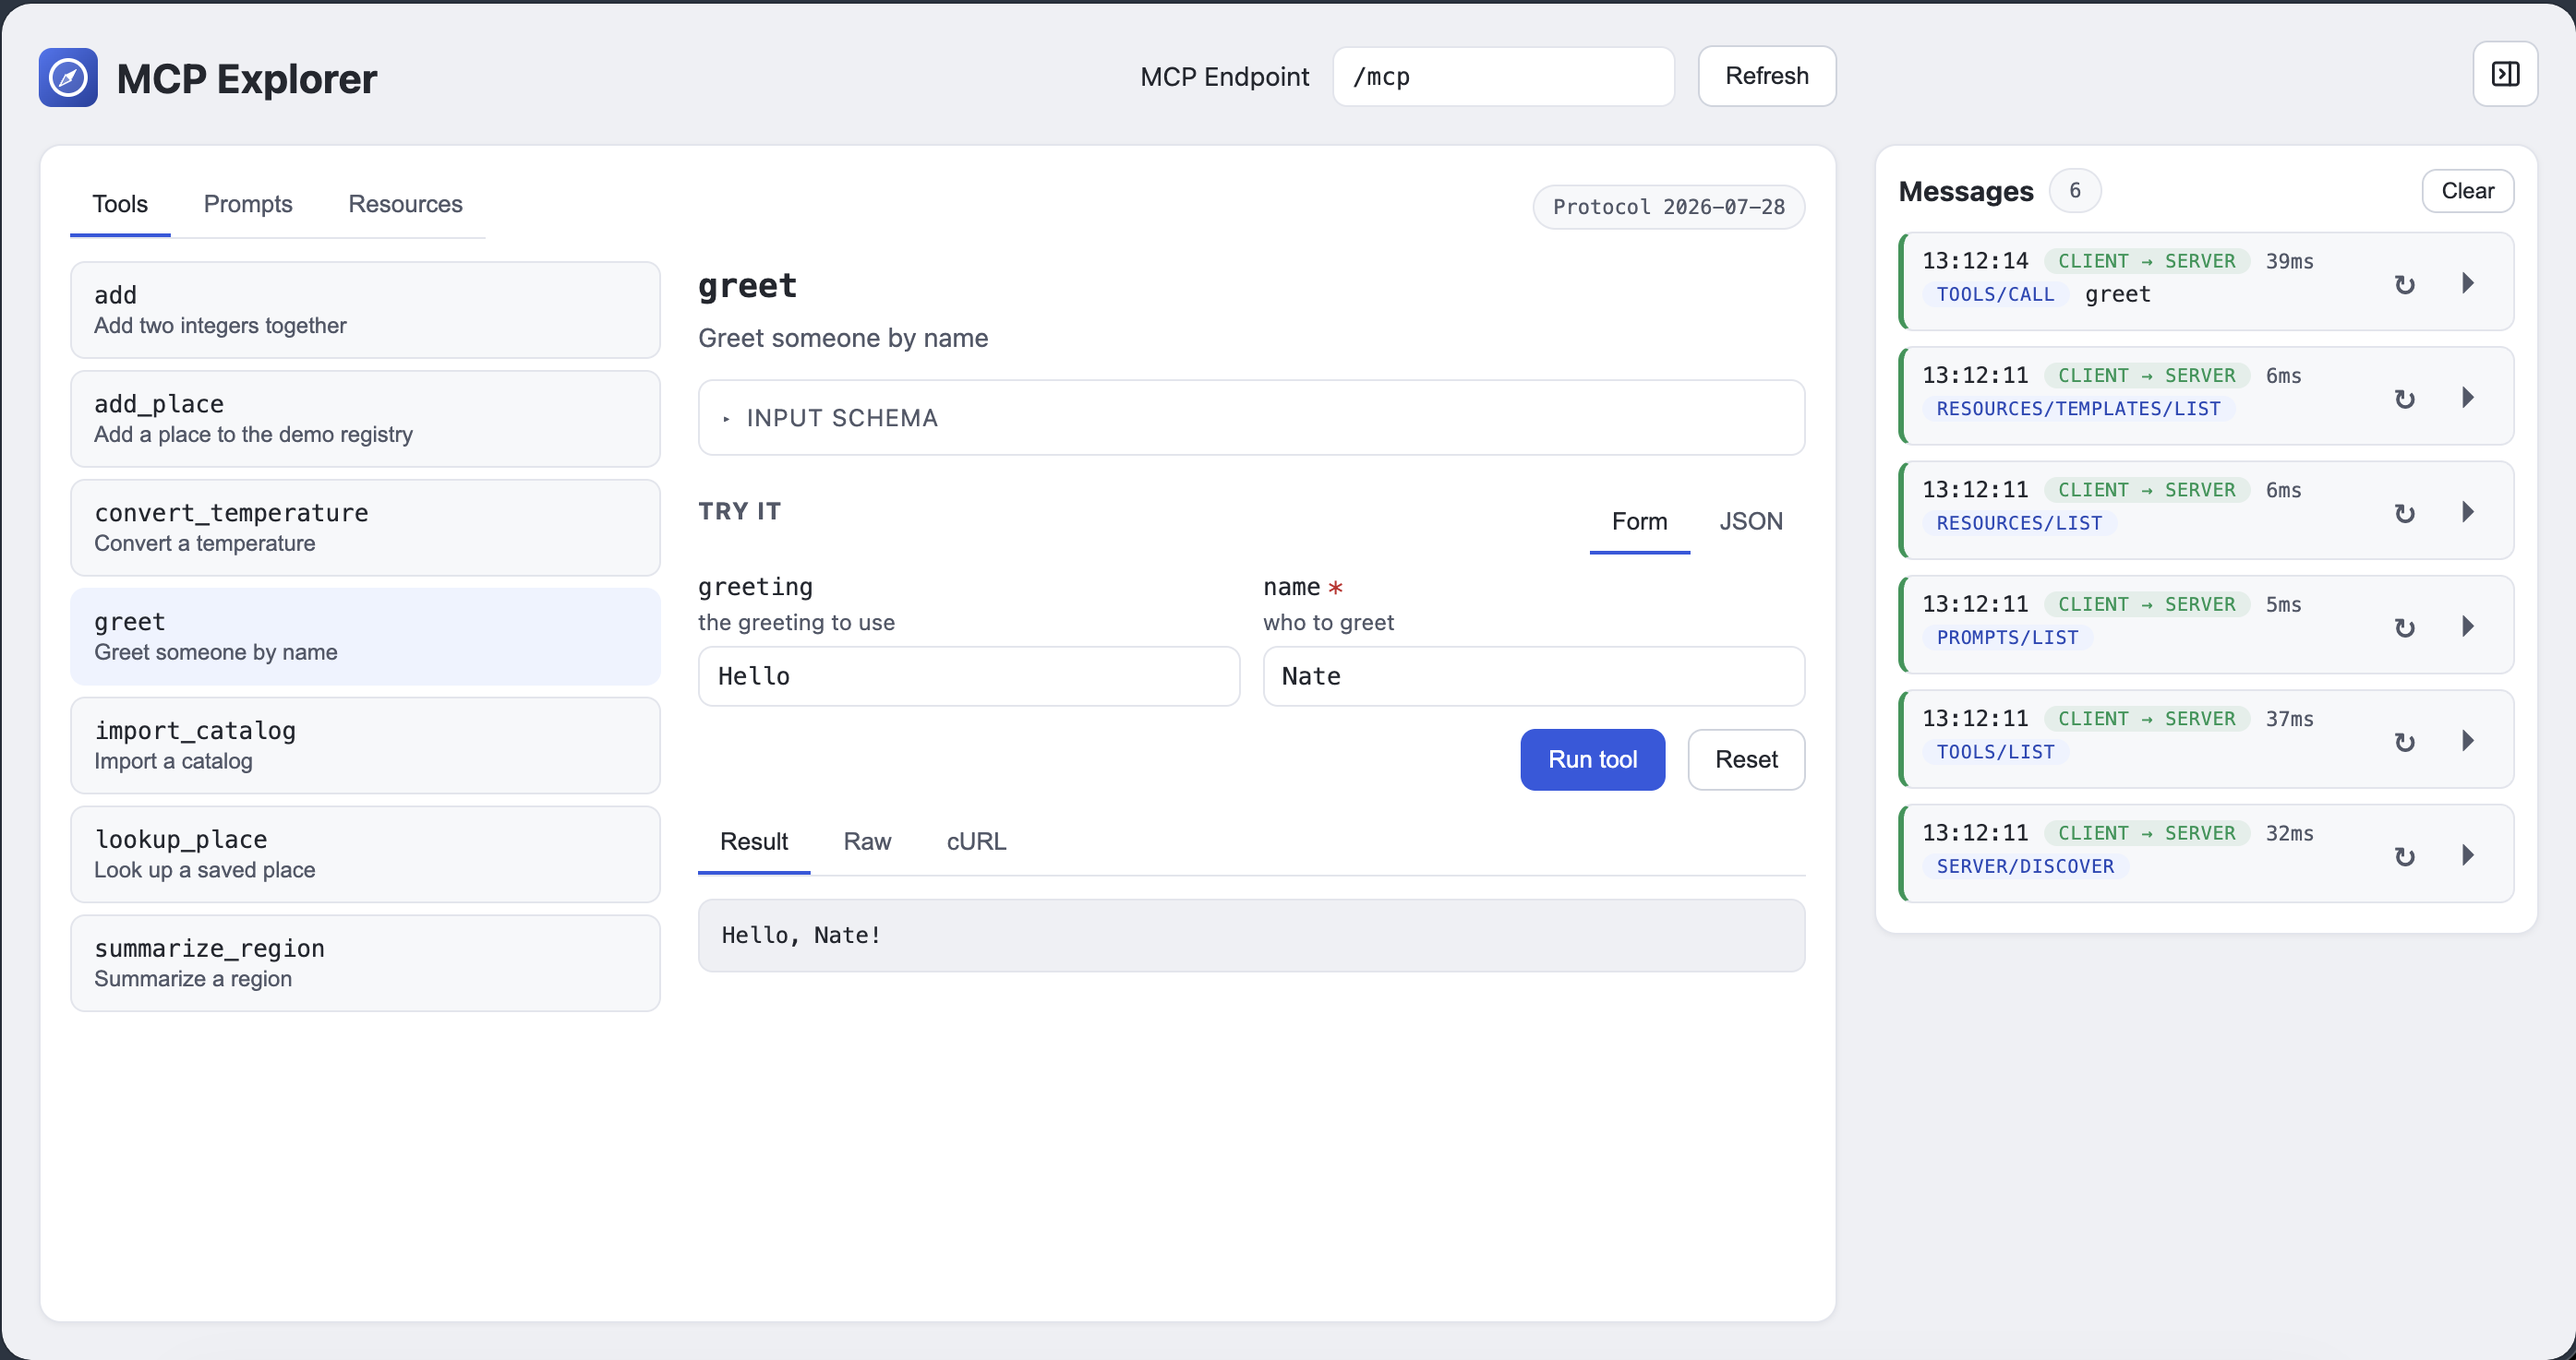
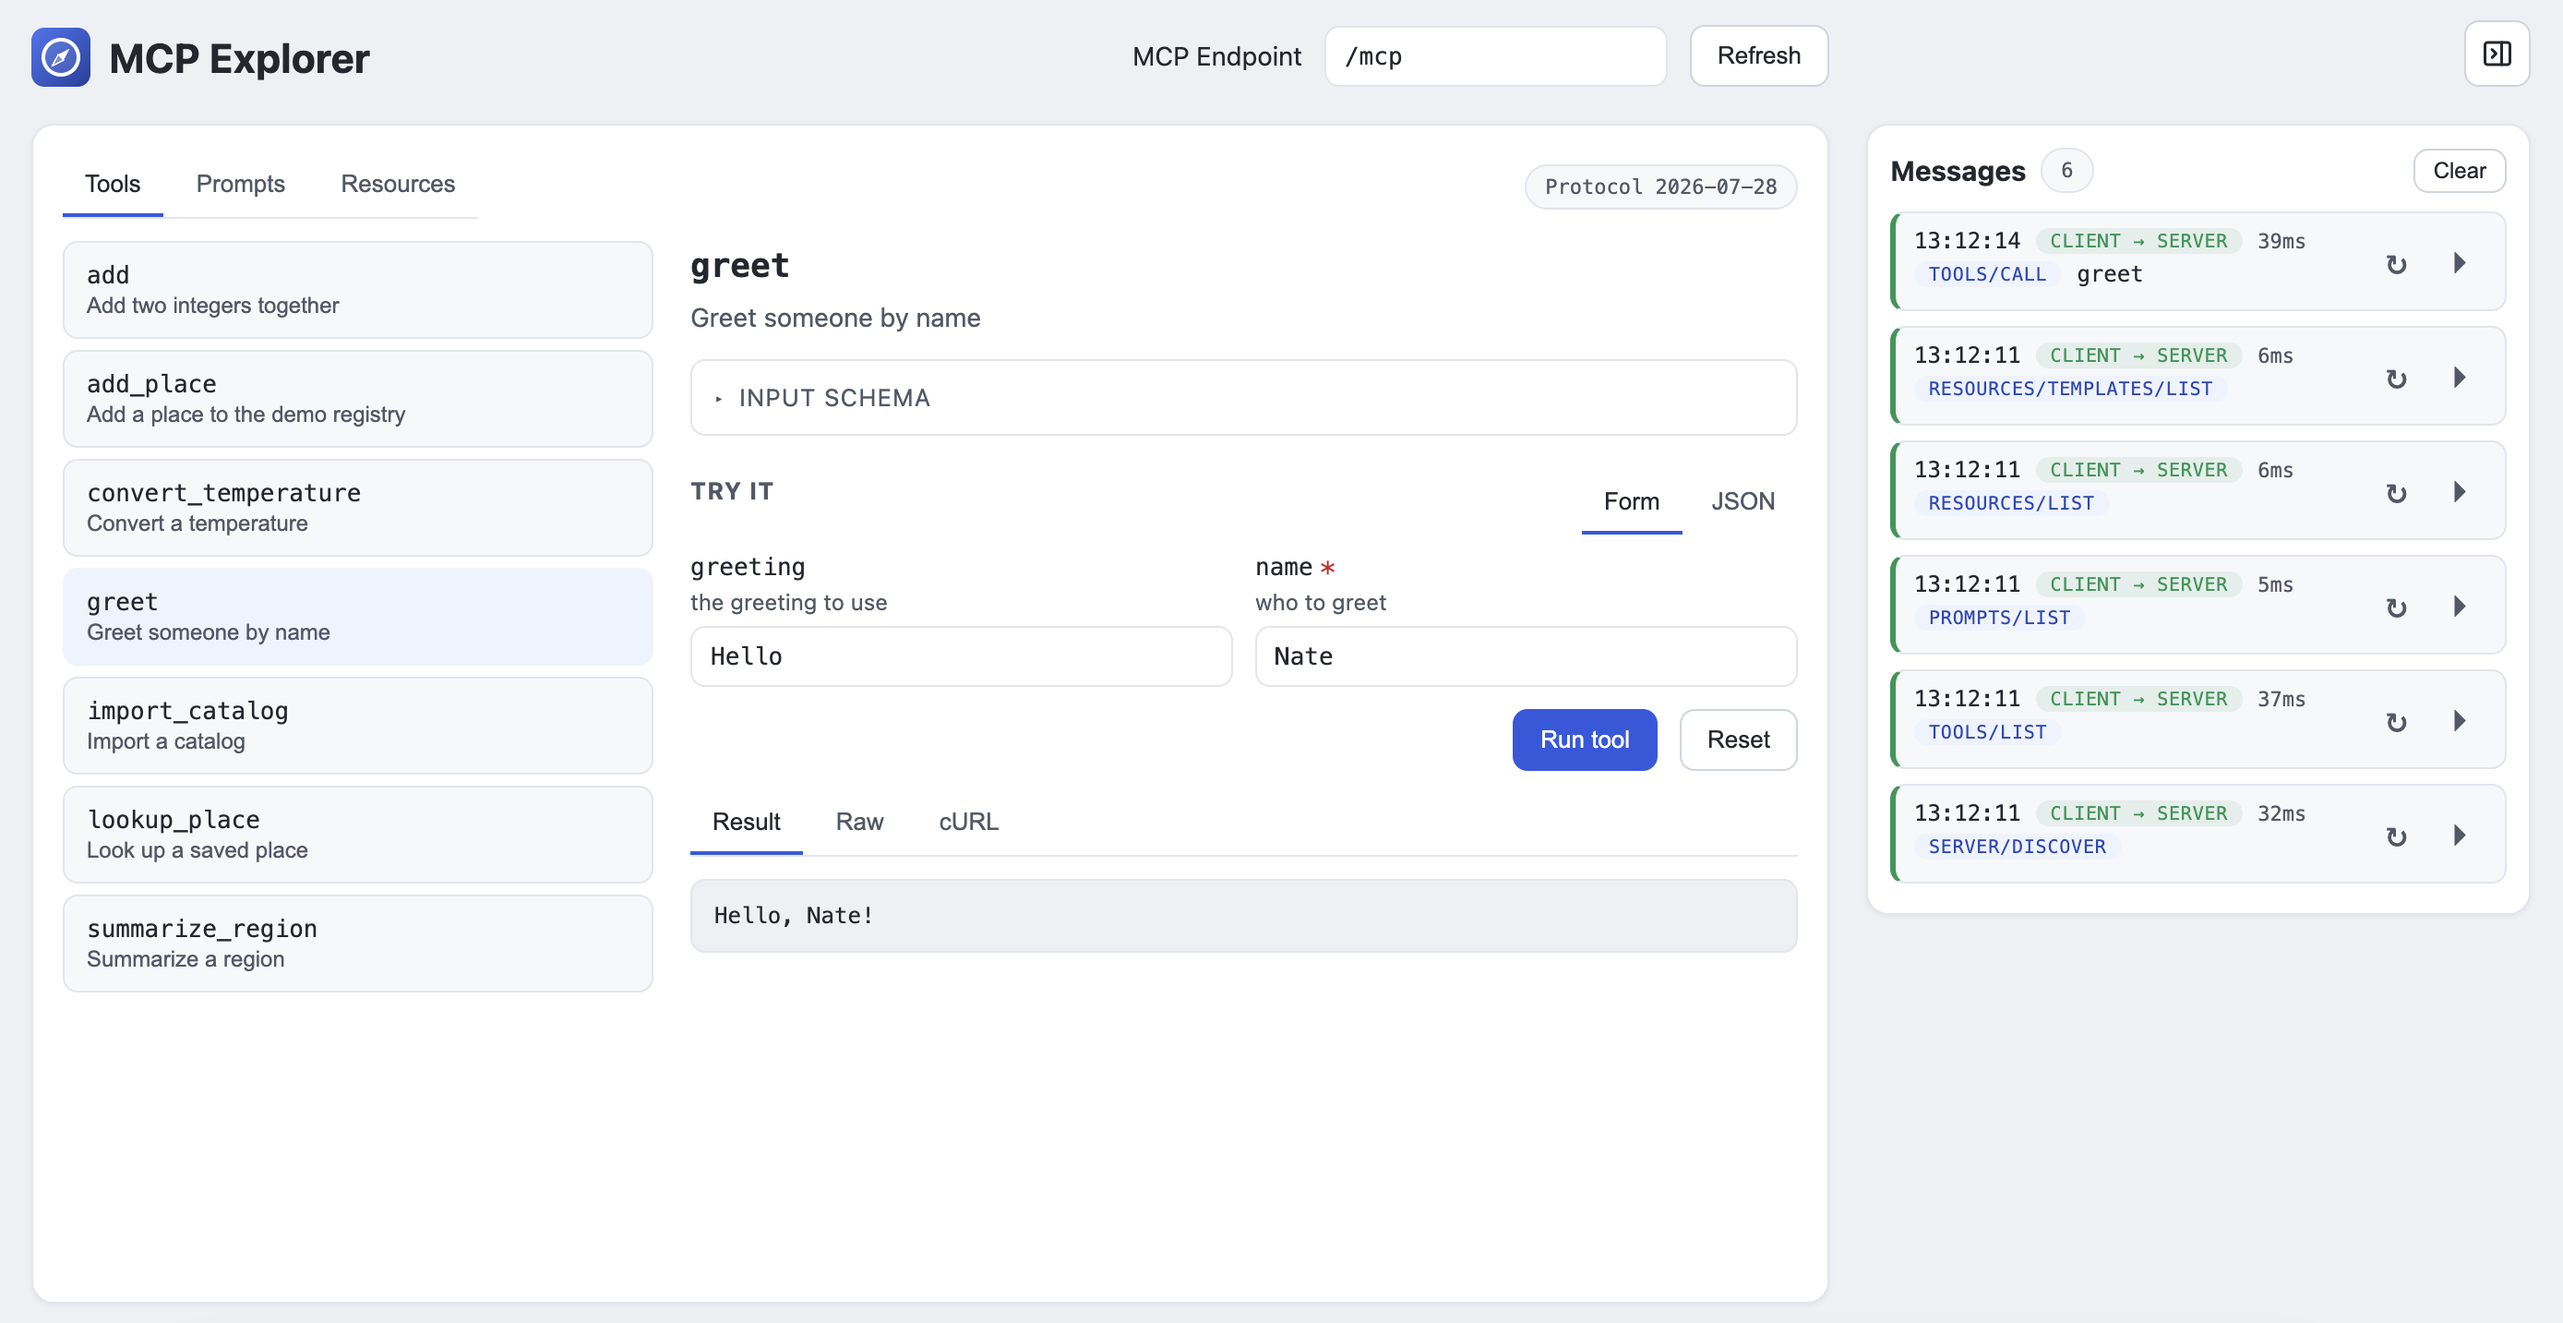
updated image and fixed stale tests

diff --git a/README.md b/README.md
@@ -19,7 +19,7 @@ JSON-RPC message live so you can see exactly what the server sent back.
 Written in **ReScript + React**. No backend and no host dependency: you pass
 the MCP endpoint in when you mount it.
 
-![MCP Explorer running the greet tool: filled Try it form, the result "Hello, Nate!", and the JSON-RPC message log](docs/tool-demo.png)
+![MCP Explorer running the greet tool: filled Try it form, the result "Hello, Nate!", and the JSON-RPC message log](docs/tool-demo-rounded.png)
 
 ## Features
 
